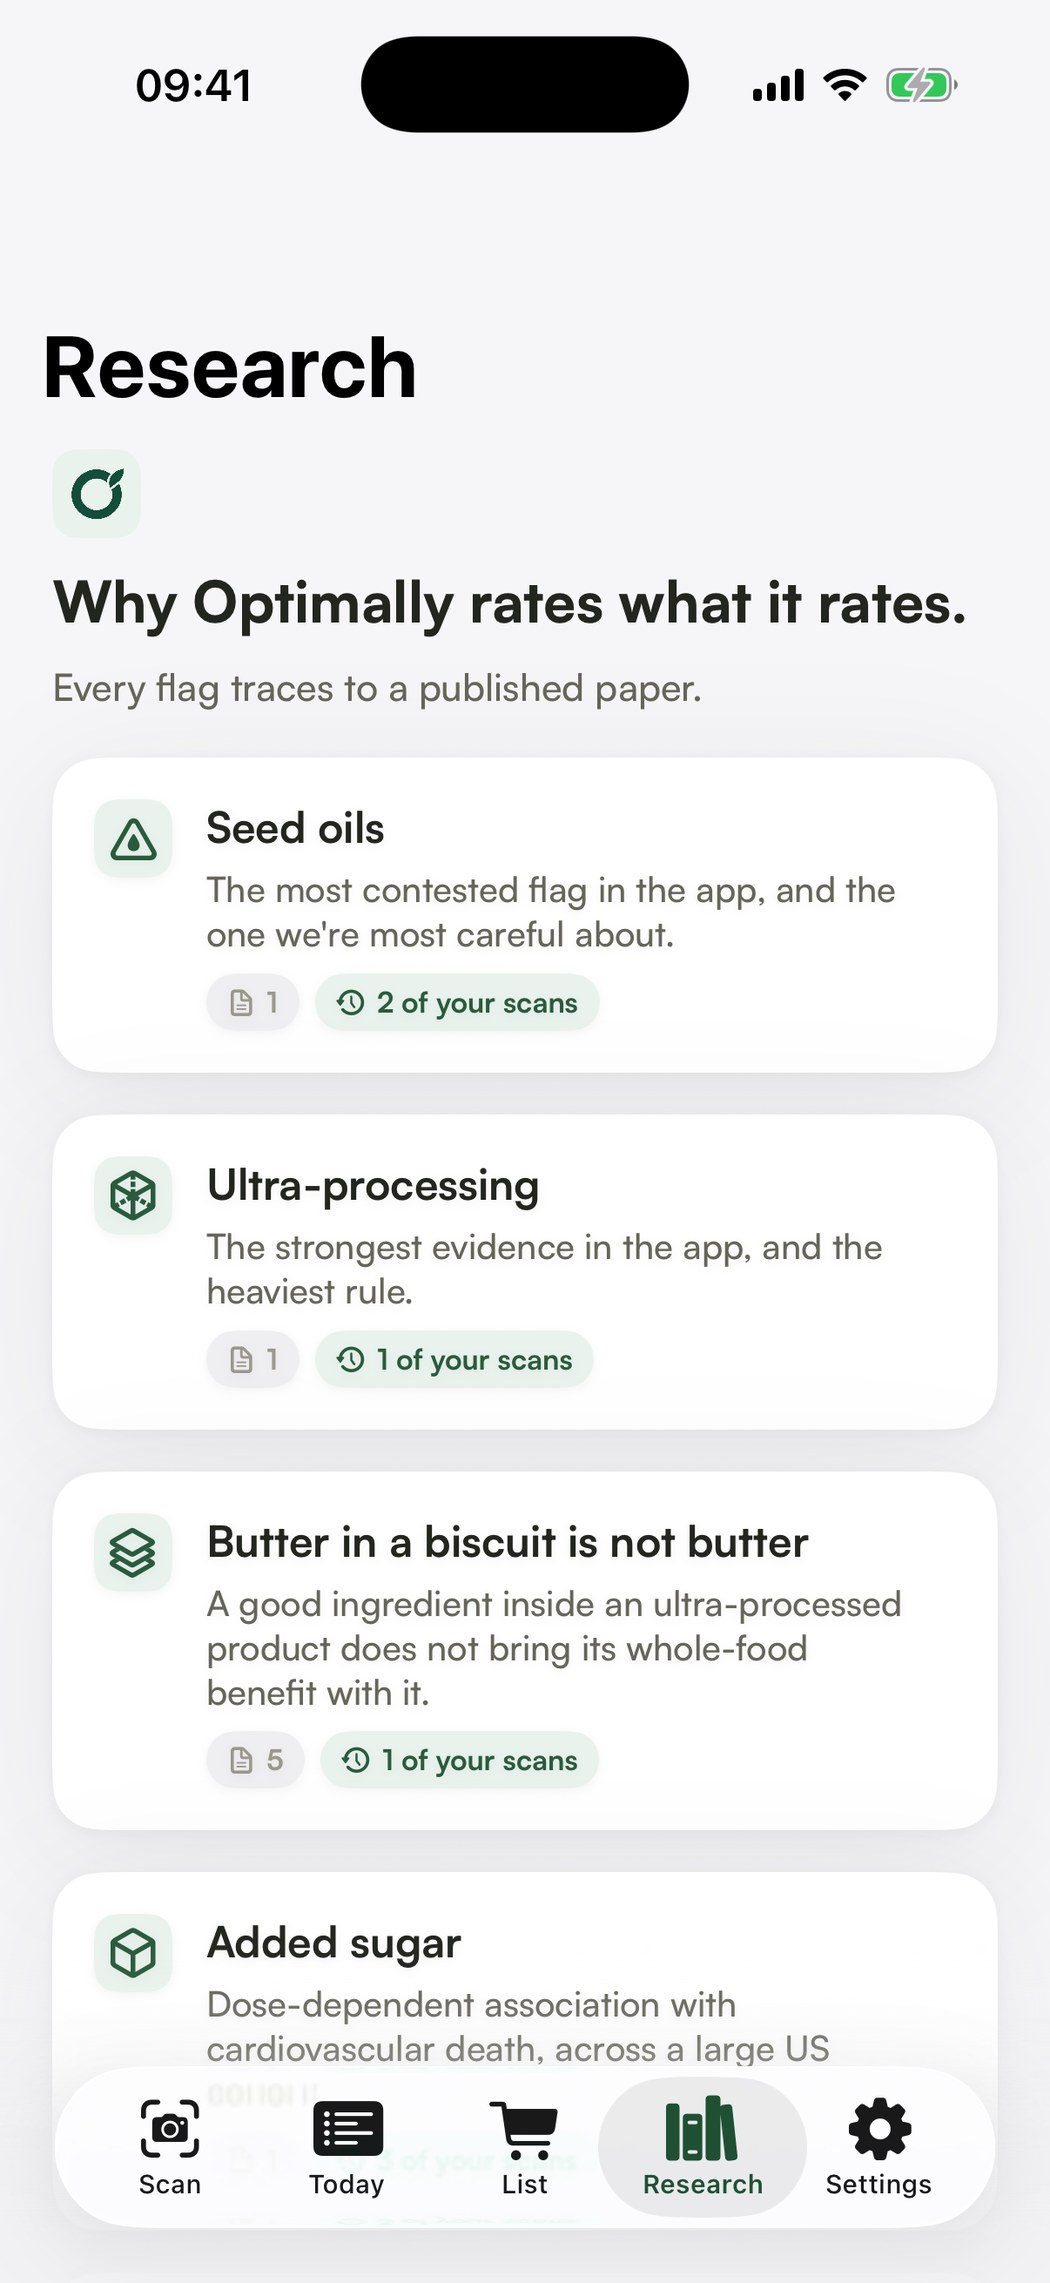
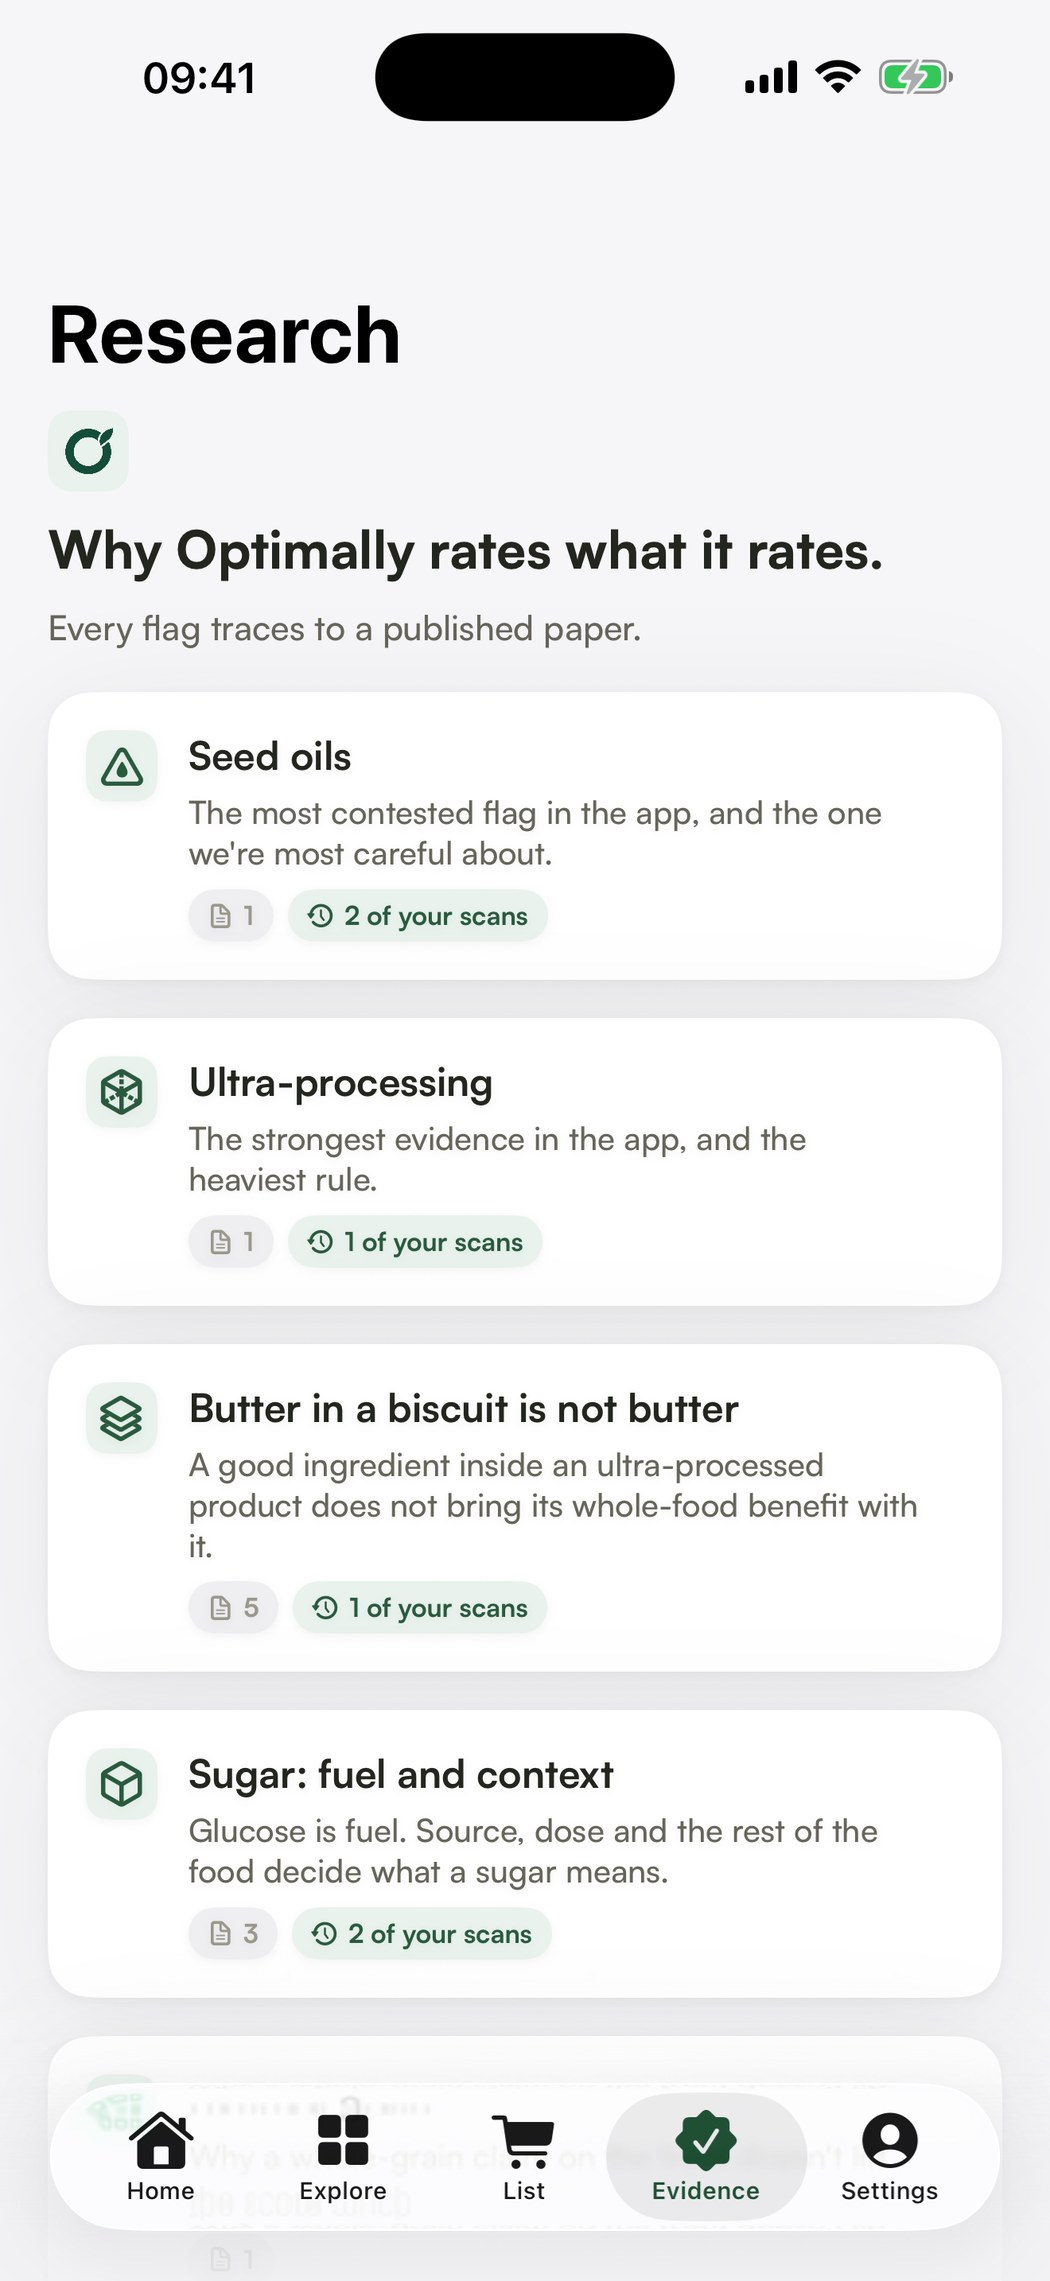
Recapture the four app screenshots; three showed a UI that is gone
The set on the site was taken on 7 September against a five-tab layout reading
Scan / Today / List / Research / Settings. The app now reads Home / Explore /
List / Evidence / Settings, so every tab bar on the home page was wrong.

The fourth was worse than stale. It showed a "Today" progress screen, and
progress is not a tab any more. ContentView's own comment says the cards moved
to the bottom of the Scan tab; they did not. `ProgressSections` is defined in
ProgressTabView.swift and referenced from nowhere in the app, so the screen in
that image cannot be reached by anyone. It is replaced by the swap shelf, which
is a real screen, is named in the App Store description, and finishes the
argument the other three start: here is the problem, here is the evidence, here
is what to buy instead.

The hero uses the same verdict file, so it changed with it. It now shows a
Choc-Chip Protein Bar scoring 14, which is a better hero than the crisps it
replaced for the reason the rest of the page argues: the product that looks
engineered to be healthy is the one the ingredient list disagrees with.

Captured on an iPhone 17 Pro Max simulator, 440x956pt at 3x and so exactly
1320x2868, then scaled to 1050 wide. Nothing upscaled. Launched with
`-seedDemo -skipOnboarding -pro -country US`, so every product on screen is a
bundled fictional fixture and no real brand appears, per the rule for this
app's marketing art. The first pass came out with "Sold in Norway" on the swap
[…]

diff --git a/app/page.tsx b/app/page.tsx
@@ -5,35 +5,55 @@ import { asset } from '@/lib/asset'
 import { FACTS, EVIDENCE_LABEL, EVIDENCE_CAVEAT } from '@/lib/facts'
 
 
-/* A caption each. These were titles alone, two words under a phone, and
-   `.shot p` has been styled in globals.css since the beginning without a
-   single page rendering one. Each line adds something the title does not
-   already say, per the house rule about subtitles that restate their heading;
-   two of them are the app's own sentences, read off the screenshot above. */
+/* RECAPTURED 14 SEPTEMBER 2026, AND THREE OF THE FOUR SHOWED A UI THAT NO
+   LONGER EXISTS.
+
+   The previous set was taken on 7 September against a five-tab layout reading
+   Scan / Today / List / Research / Settings. The app now reads Home / Explore
+   / List / Evidence / Settings, so every tab bar on this page was wrong.
+
+   The fourth screenshot was worse than stale. It showed a "Today" progress
+   screen, and progress is no longer a tab at all: ContentView's own comment
+   says the cards moved to the bottom of the Scan tab, and they did not.
+   `ProgressSections` is defined in ProgressTabView.swift and referenced from
+   nowhere in the app. The screen in that image cannot be reached. It has been
+   replaced by the swap shelf, which is a real screen, is in the App Store
+   description, and finishes the argument the other three start: here is the
+   problem, here is the evidence, here is what to buy instead.
+
+   Captured on an iPhone 17 Pro Max simulator, which is 440x956pt at 3x and so
+   exactly 1320x2868, then scaled to 1050 wide. Nothing is upscaled. Launched
+   with `-seedDemo -skipOnboarding -pro -country US`, so every product on
+   screen is one of the bundled fictional fixtures (GymFuel, CleanMacro,
+   Nordby, Bare Bar, Morning Co.) and no real brand appears, which is the rule
+   for this app's marketing art.
+
+   A caption each. Each line adds something the title does not already say, per
+   the house rule about subtitles that restate their heading. */
 const SHOTS = [
   {
     src: '/shots/scan.jpg',
-    alt: 'Optimally home screen: scan button, product search, barcode entry, and recent scans each showing their score',
+    alt: 'Optimally home screen: a scan button, two suggested alternatives scoring 88 and 92, a product search, a barcode field and the most recent scan',
     title: 'Scan or search',
     desc: 'Point the camera at a barcode, or type a name in.',
   },
   {
     src: '/shots/verdict.jpg',
-    alt: 'Optimally verdict screen scoring Sour Cream Potato Chips 19 out of 100, very bad, flagged ultra-processed and contains seed oils',
+    alt: 'Optimally scoring a Choc-Chip Protein Bar 14 out of 100, very bad, flagged ultra-processed and contains seed oils',
     title: 'Read the verdict',
     desc: 'The number, the band, and every line that moved it.',
   },
   {
     src: '/shots/research.jpg',
-    alt: 'Optimally research screen listing seed oils, ultra-processing, added sugar and refined grain',
+    alt: 'Optimally research screen headed "Why Optimally rates what it rates", listing seed oils, ultra-processing, the food matrix and sugar, each showing how many papers back it',
     title: 'Check our work',
     desc: 'Every flag traces to a published paper.',
   },
   {
-    src: '/shots/progress.jpg',
-    alt: 'Optimally Today screen: a weighted score of 36 for four things logged, calories and macros, and what share of the day was industrially formulated',
-    title: 'See the pattern',
-    desc: 'What you ate today, weighted by how much of each.',
+    src: '/shots/swaps.jpg',
+    alt: 'Optimally showing better products on the same shelf at 92, 88 and 88, above a breakdown rating sunflower oil and aspartame Very Bad',
+    title: 'Find something better',
+    desc: 'Higher scores on the same shelf, and every ingredient rated.',
   },
 ]
 
@@ -91,7 +111,7 @@ export default function Home() {
 
             <Phone
               src="/shots/verdict.jpg"
-              alt="Optimally scoring a bag of potato chips 19 out of 100, flagged ultra-processed and contains seed oils"
+              alt="Optimally scoring a Choc-Chip Protein Bar 14 out of 100, flagged ultra-processed and contains seed oils"
               tilt
               priority
             />
